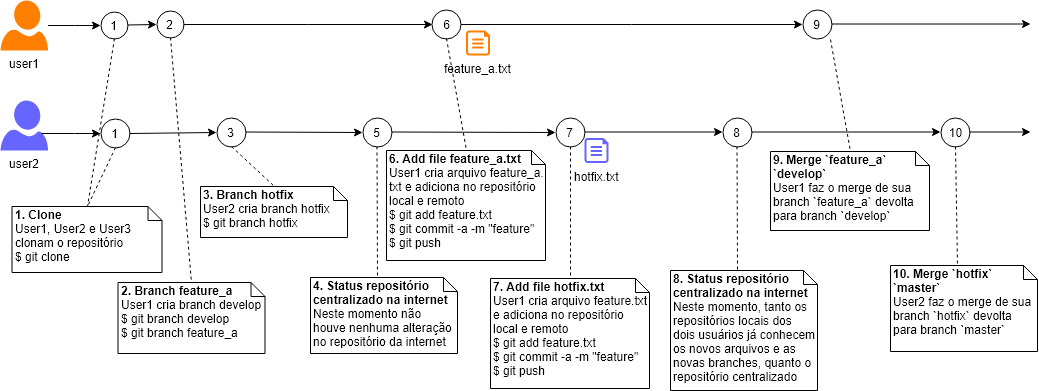
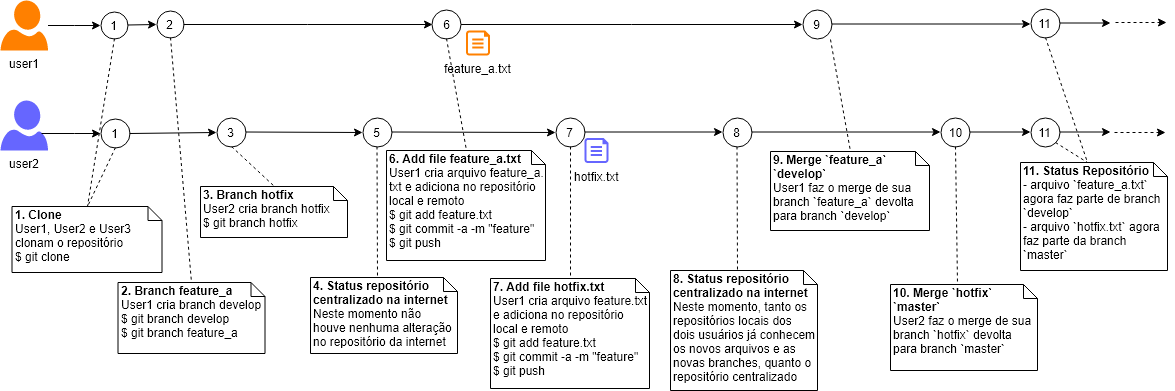
.

diff --git a/README.md b/README.md
@@ -27,7 +27,7 @@ O objetivo deste projeto é explorar os principais conceitos, comandos e cenári
   * [Cenário 4: Removendo um arquivo do repositorio centralizado](#374-cenário-4-removendo-um-arquivo-do-repositorio-centralizado)
 * [Estratégia de gerenciamento de branches](#38-estratégia-de-gerenciamento-de-branches)
   * [Branches: master, develop, feature, release e hotfix](#381-branches-master-develop-feature-release-e-hotfix)
-  * [Trabalhando simultaneamente com mais de uma branch](#39-trabalhando-simultaneamente-com-mais-de-uma-branch)
+  * [Cenário 5: Trabalhando simultaneamente com mais de uma branch](#39-cenário-5-trabalhando-simultaneamente-com-mais-de-uma-branch)
 
 ---
 ## 3. Projeto Demonstração
@@ -378,7 +378,7 @@ Arquivo não encontrado
   * convenção de nomes: __hotfix-*__
 
 
-#### 3.9. Trabalhando simultaneamente com mais de uma branch
+#### 3.9. Cenário 5: Trabalhando simultaneamente com mais de uma branch
 
 * Suponha o cenário onde existam 2 usuários simultâneos: user1 e user2. Para simular o cenário, vamos criar 2 (dois subdiretorios) um para cada um deles.
 * Todos os usuários, `user1`, `user2` e `user3` vão fazer um `git clone` da posição atual do repositório [`git clone`](https://git-scm.com/docs/git-clone)
@@ -505,6 +505,63 @@ C:\user1\eval-git> git push --set-upstream origin hotfix
 
 ![GitTimeline-Example-06.png](./doc/GitTimeline-Example-06.png) 
 
+
+* No(s) pontos: ( `9` ), o usuário `user1` vai fazer [`merge`](https://git-scm.com/docs/git-merge) de sua(s) alteração(ões) da branch `feature_a`, onde ele implementou um novo arquivo `feature_a.txt`, para a branch `develop`. Observe que ele não vai retornar direto para a branch `master`. Ao final do ciclo de vida da `feature_a`, o usuário `user1` vai remover a branch `feature_a`.
+
+```bat
+C:\> cd \githome\user1\eval-git
+C:\..\user1\eval-git> git pull
+C:\..\user1\eval-git> git branch
+  develop
+* feature_a
+  master
+C:\..\user1\eval-git> git checkout develop
+C:\..\user1\eval-git> git merge feature_a
+Updating e224d8d..26edcbf
+Fast-forward
+ feature_a.txt | 1 +
+ 1 file changed, 1 insertion(+)
+ create mode 100644 feature_a.txt
+C:\..\user1\eval-git> git status
+On branch develop
+nothing to commit, working tree clean
+C:\..\user1\eval-git> git push --set-upstream origin develop
+C:\..\user1\eval-git> git branch
+* develop
+  feature_a
+  master
+C:\..\user1\eval-git> git branch -d feature_a
+Deleted branch feature_a (was 26edcbf).
+```
+
+* No(s) pontos: ( `10` ), o usuário `user2` vai fazer [`merge`](https://git-scm.com/docs/git-merge) de sua(s) alteração(ões) da branch `hotfix`, onde ele implementou um novo arquivo `hotfix.txt`, para a branch `master`. Observe que tratou-se de uma alteração emergencial diretamente na branch `master`.
+
+```bat
+C:\> cd \githome\user2\eval-git
+C:\..\user2\eval-git> git pull
+C:\..\user2\eval-git> git branch
+* hotfix
+  master
+C:\..\user2\eval-git> git checkout master
+C:\..\user2\eval-git> git pull
+C:\..\user2\eval-git> git merge hotfix
+Merge made by the 'recursive' strategy.
+ hotfix.txt | 1 +
+ 1 file changed, 1 insertion(+)
+ create mode 100644 hotfix.txt
+C:\..\user2\eval-git> git status
+On branch master
+Your branch is ahead of 'origin/master' by 2 commits.
+  (use "git push" to publish your local commits)
+nothing to commit, working tree clean
+C:\..\user2\eval-git> git push
+```
+
+* No(s) pontos: ( `11` ), o arquivo `hotfix.txt` da branch `hotfix` agora também faz parte da branch `master`. O arquivo `feature_a.txt` da branch `feature_a` agora também faz parte da branch `develop`. A branch `develop` ainda não conhece o arquivo `hotfix.txt`.
+
+![GitTimeline-Example-07.png](./doc/GitTimeline-Example-07.png) 
+
+![GitTimeline-Example-08.png](./doc/GitTimeline-Example-08.png) 
 
 
 
